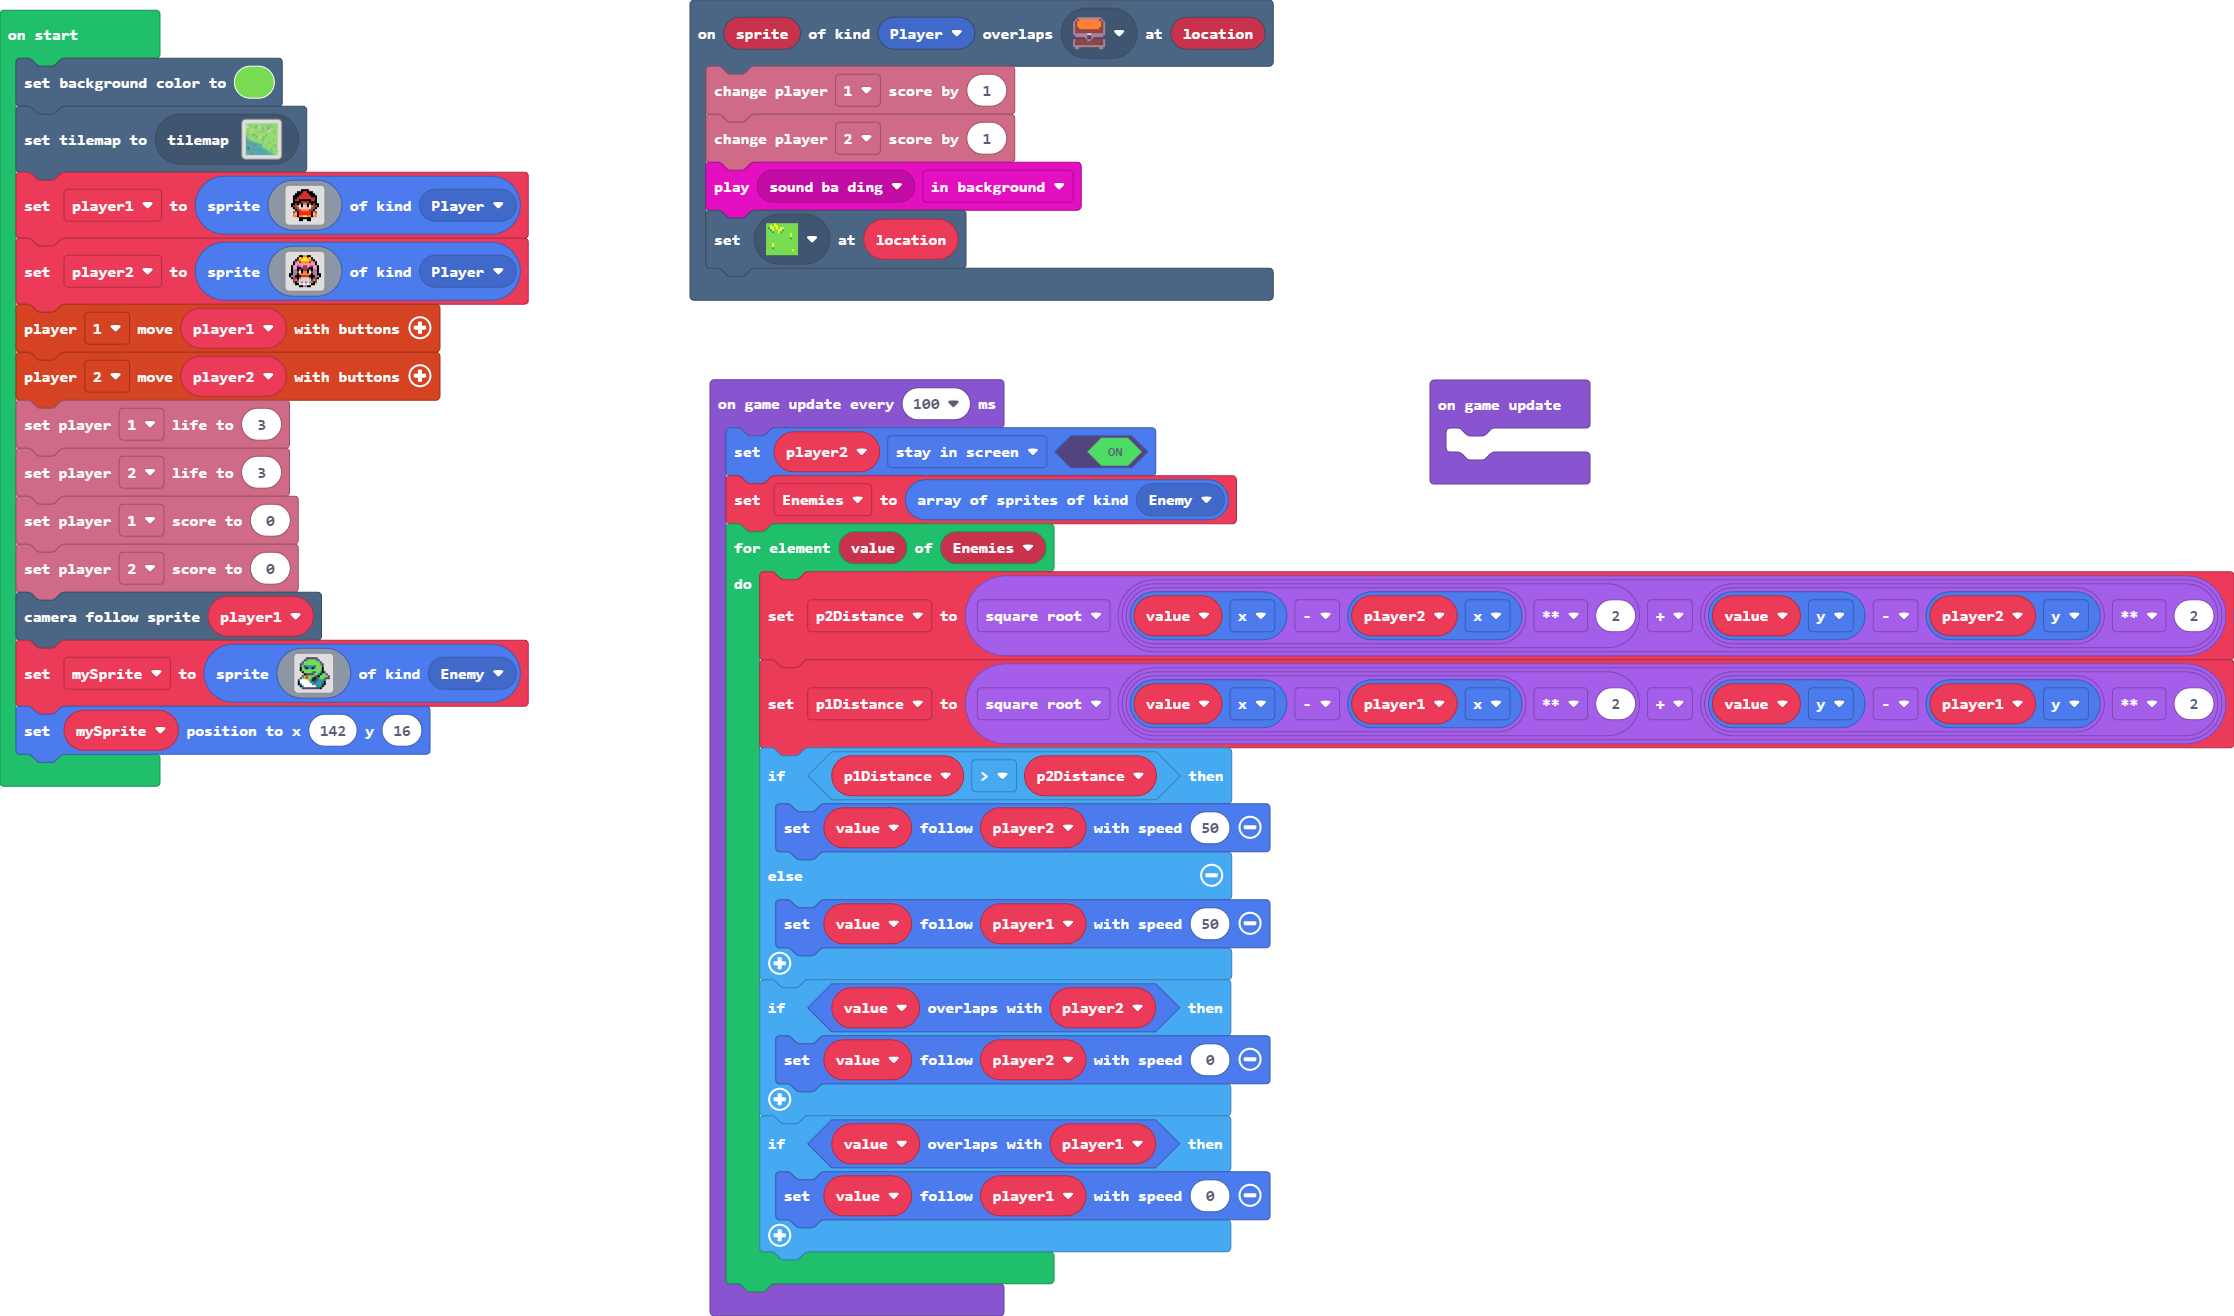
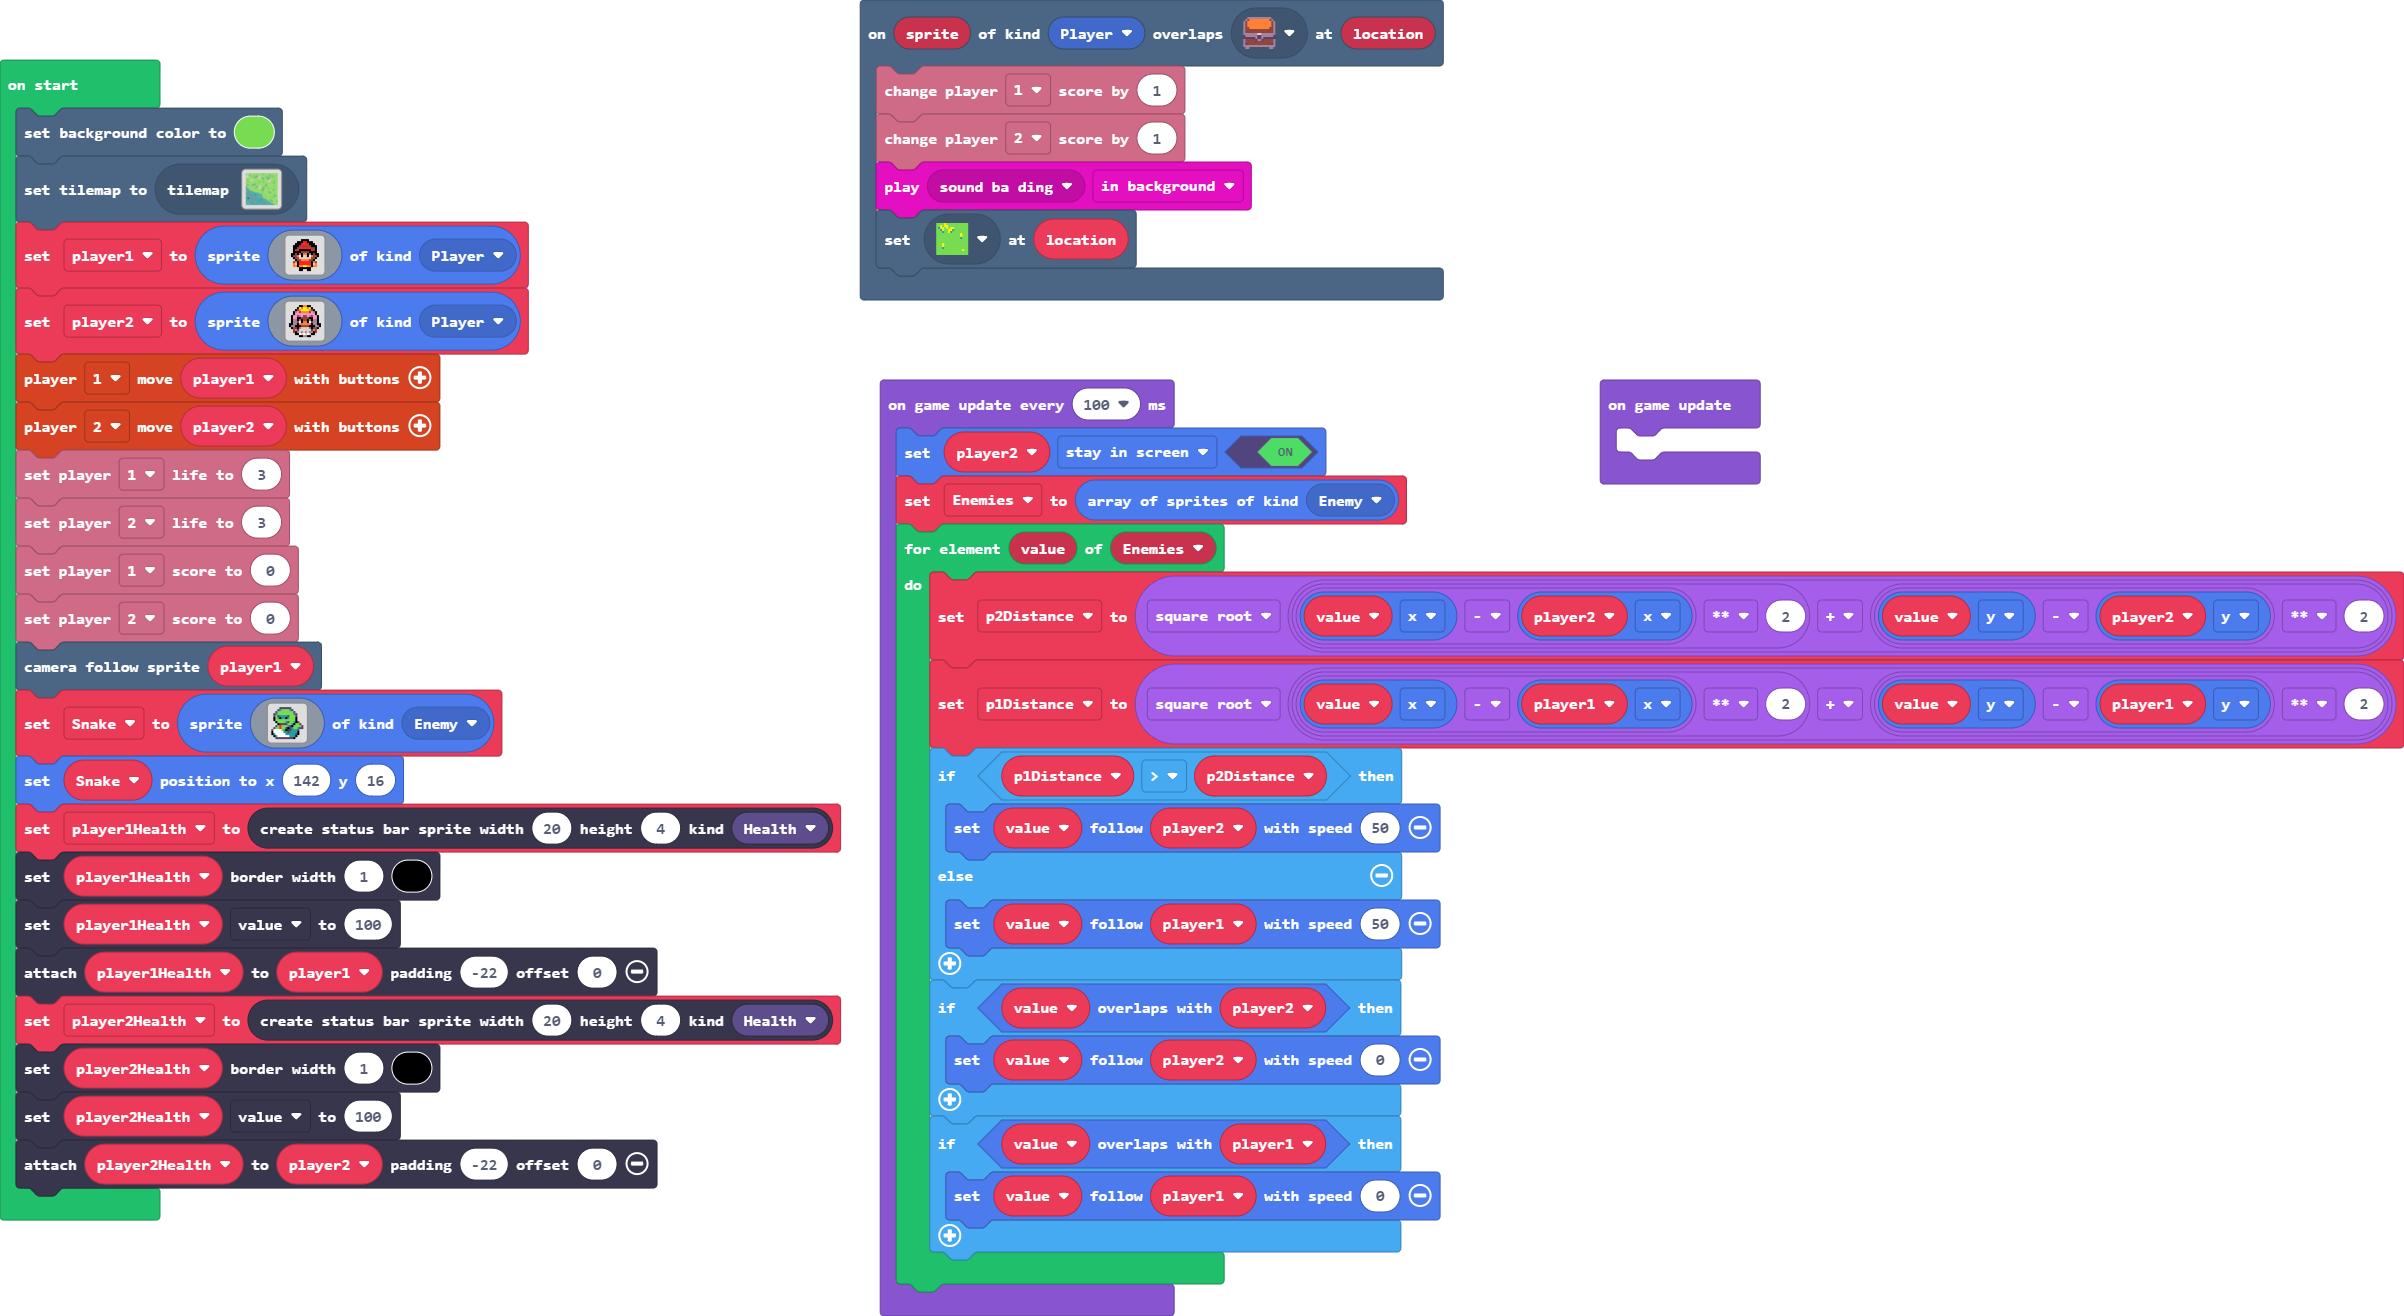
Update pxt.json, main.blocks, main.ts

diff --git a/main.ts b/main.ts
@@ -52,7 +52,7 @@ info.player2.setLife(3)
 info.player1.setScore(0)
 info.player2.setScore(0)
 scene.cameraFollowSprite(player1)
-let mySprite = sprites.create(img`
+let Snake = sprites.create(img`
     . . . . c c c c c c . . . . . . 
     . . . c 6 7 7 7 7 6 c . . . . . 
     . . c 7 7 7 7 7 7 7 7 c . . . . 
@@ -70,7 +70,15 @@ let mySprite = sprites.create(img`
     . f 6 1 1 1 1 1 1 6 6 6 f . . . 
     . . c c c c c c c c c f . . . . 
     `, SpriteKind.Enemy)
-mySprite.setPosition(142, 16)
+Snake.setPosition(142, 16)
+let player1Health = statusbars.create(20, 4, StatusBarKind.Health)
+player1Health.setBarBorder(1, 15)
+player1Health.value = 100
+player1Health.attachToSprite(player1, -22, 0)
+let player2Health = statusbars.create(20, 4, StatusBarKind.Health)
+player2Health.setBarBorder(1, 15)
+player2Health.value = 100
+player2Health.attachToSprite(player2, -22, 0)
 game.onUpdate(function () {
 	
 })
